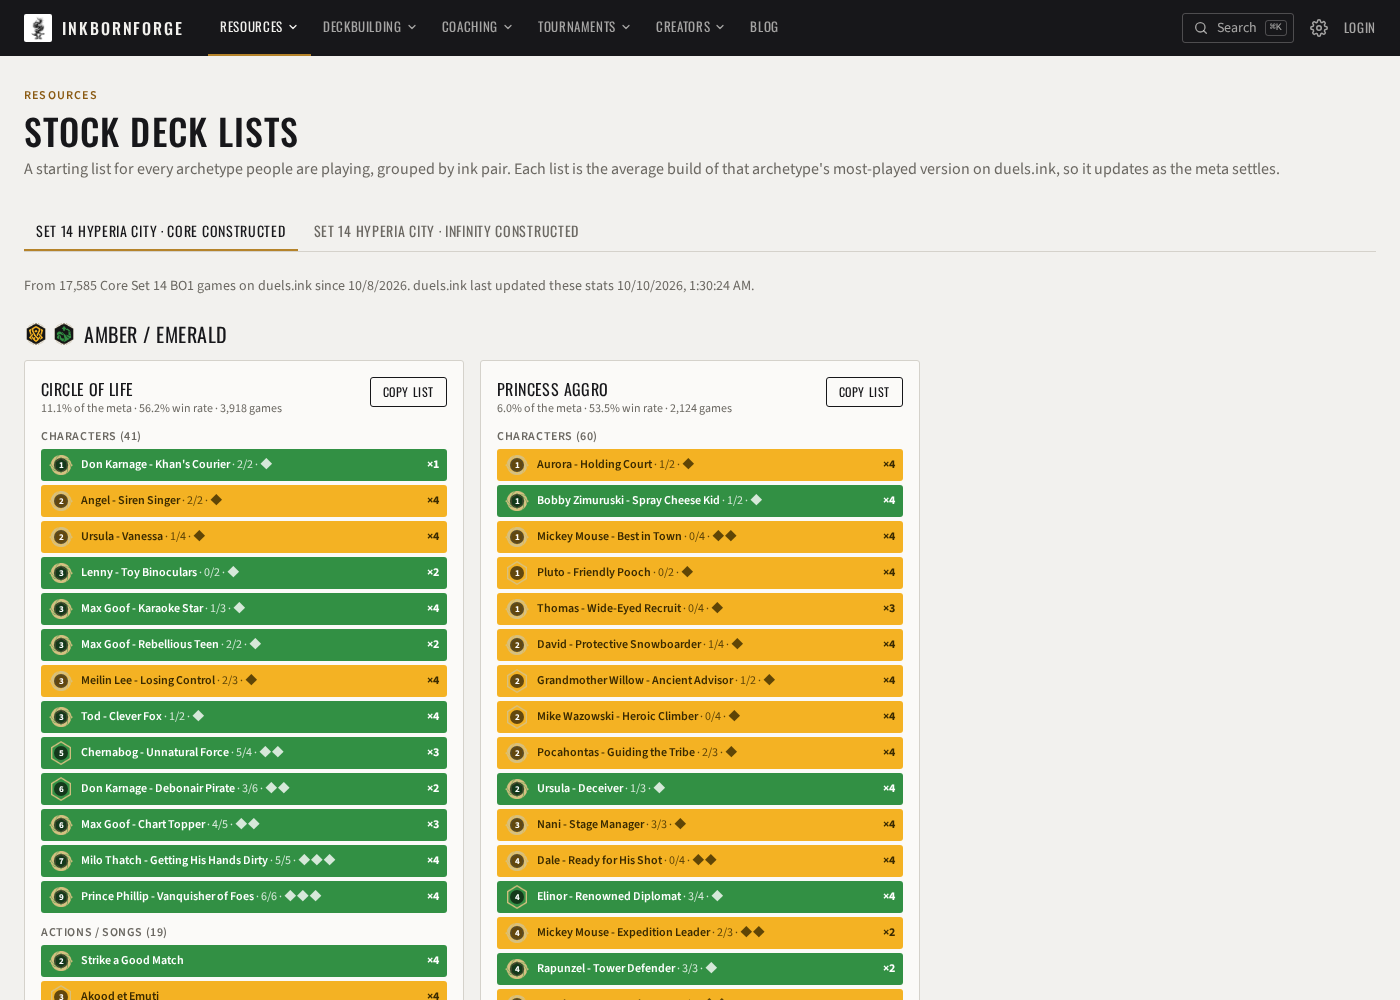
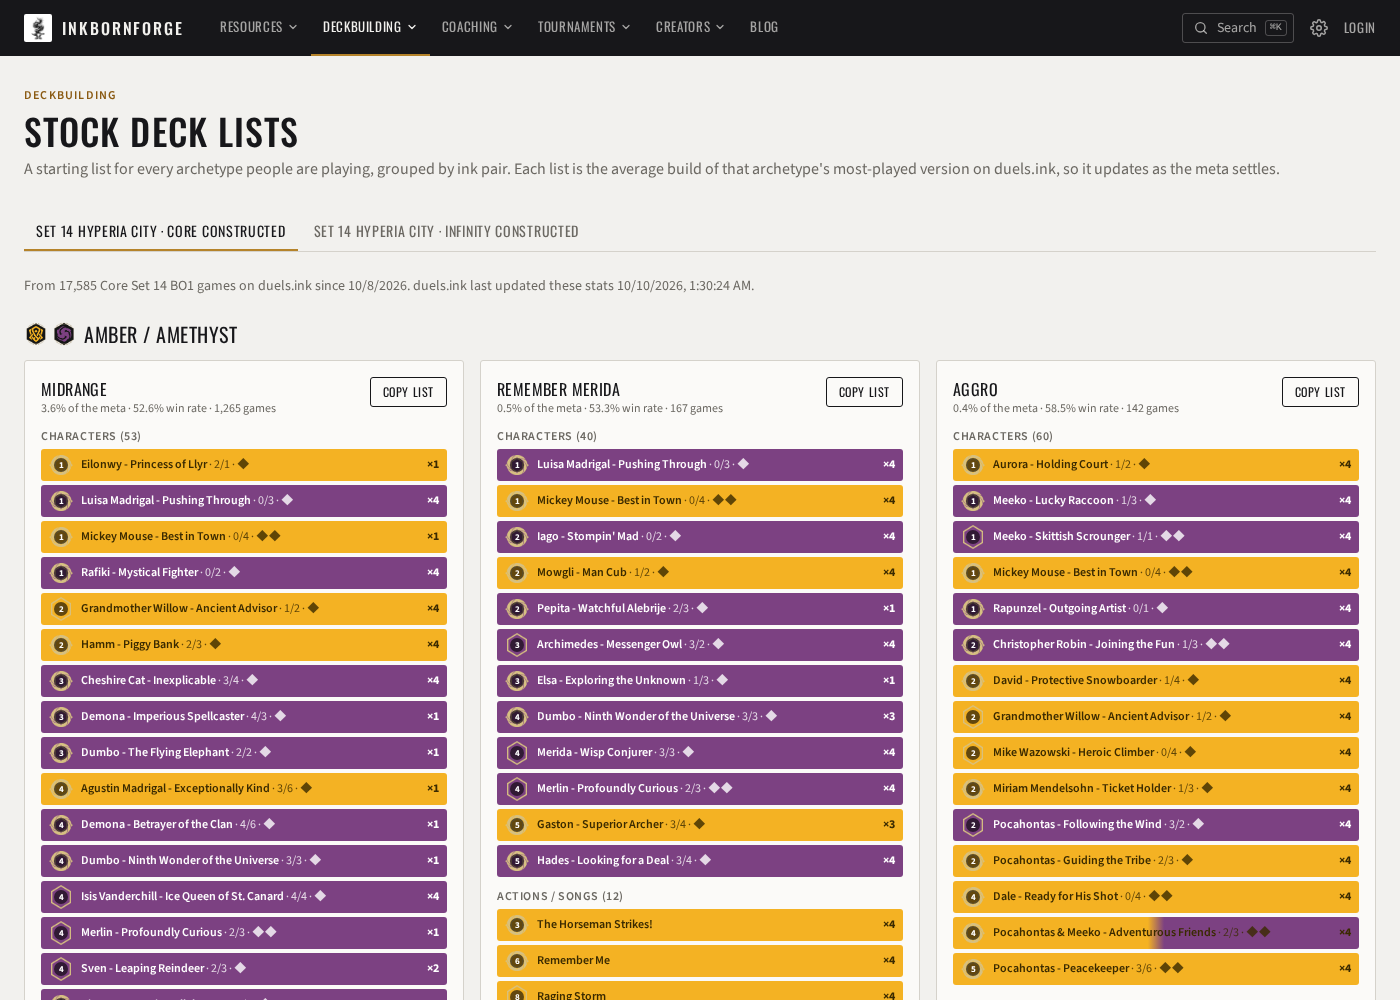
Move deck list pages to Deckbuilding and sort lists by ink pair (#269)
* Move Stock Deck Lists and The Forge Decklists to Deckbuilding

Claude-Session: https://claude.ai/code/session_011LPqTTKt9sshWg5cJPzBrz

* Sort deck lists alphabetically by ink pair

Claude-Session: https://claude.ai/code/session_011LPqTTKt9sshWg5cJPzBrz

---------

diff --git a/src/lib/siteSections.js b/src/lib/siteSections.js
@@ -38,18 +38,6 @@ export const SECTIONS = [
         icon: 'sparkle',
         description: 'A plain-language read on what\'s happening in the meta right now — most-played and highest-winrate archetypes, centered on your own rank and defaulting to the latest week.',
       },
-      {
-        path: '/stock-decks',
-        name: 'Stock Deck Lists',
-        icon: 'cards',
-        description: 'A starting list for every archetype in the meta, grouped by ink pair and organized by set. Copy any list straight into duels.ink.',
-      },
-      {
-        path: '/forge-decks',
-        name: 'The Forge Decklists',
-        icon: 'flame',
-        description: 'Our recommended deck lists for each format, organized by set. Copy any list straight into duels.ink.',
-      },
     ],
   },
   {
@@ -73,6 +61,18 @@ export const SECTIONS = [
         name: 'Coconut Deck Builder',
         icon: 'palm',
         description: 'Build decks for the [Format Coconut] multiplayer format — pick a Coconut card, lock in your inks, and build a singleton deck around it with the copy-count exceptions enforced automatically.',
+      },
+      {
+        path: '/stock-decks',
+        name: 'Stock Deck Lists',
+        icon: 'cards',
+        description: 'A starting list for every archetype in the meta, grouped by ink pair and organized by set. Copy any list straight into duels.ink.',
+      },
+      {
+        path: '/forge-decks',
+        name: 'The Forge Decklists',
+        icon: 'flame',
+        description: 'Our recommended deck lists for each format, organized by set. Copy any list straight into duels.ink.',
       },
     ],
   },

diff --git a/src/lib/__tests__/stockDecks.test.js b/src/lib/__tests__/stockDecks.test.js
@@ -13,18 +13,19 @@ describe('buildStockDecks', () => {
       profile('a2', ['amber', 'emerald'], 'Circle of Life', 50, { '1-2': 4, '1-3': 2 }),
       profile('b1', ['amber', 'emerald'], 'Princess Aggro', 20, { '1-4': 4 }),
       profile('c1', ['amber', 'sapphire'], 'Control', 40, { '1-5': 4 }),
+      profile('d1', ['amethyst', 'amber'], 'Midrange', 10, { '1-7': 4 }),
       profile('x1', ['ruby', 'steel'], null, 999, { '1-6': 4 }),
     ],
   }
 
-  it('groups archetypes by ink pair, most played first, skipping unnamed profiles', () => {
+  it('groups archetypes by ink pair, pairs alphabetical, most played first within a pair, skipping unnamed profiles', () => {
     const pairs = buildStockDecks(stats)
-    expect(pairs.map(p => [p.key, p.gamesPlayed])).toEqual([['amber/emerald', 100], ['amber/sapphire', 40]])
-    expect(pairs[0].decks.map(d => d.name)).toEqual(['Circle of Life', 'Princess Aggro'])
+    expect(pairs.map(p => [p.key, p.gamesPlayed])).toEqual([['amber/amethyst', 10], ['amber/emerald', 100], ['amber/sapphire', 40]])
+    expect(pairs[1].decks.map(d => d.name)).toEqual(['Circle of Life', 'Princess Aggro'])
   })
 
   it("uses the most-played variant's centroid as the list", () => {
-    const deck = buildStockDecks(stats)[0].decks[0]
+    const deck = buildStockDecks(stats)[1].decks[0]
     expect(deck.cards).toEqual([{ cardId: '1-2', count: 4 }, { cardId: '1-3', count: 2 }])
     expect(deck.totalCards).toBe(6)
     expect(deck.gamesPlayed).toBe(80)

diff --git a/src/lib/__tests__/forgeDecks.test.js b/src/lib/__tests__/forgeDecks.test.js
@@ -1,5 +1,5 @@
 import { describe, it, expect } from 'vitest'
-import { parseForgeDeck } from '../forgeDecks'
+import { parseForgeDeck, forgeDecksFor } from '../forgeDecks'
 
 const PATH = '/content/forge-decks/set-14-core/amber-steel.txt'
 
@@ -29,5 +29,12 @@ describe('parseForgeDeck', () => {
     expect(() => parseForgeDeck(PATH, '---\ninks: amber\n---\n4 X\n')).toThrow('"name"')
     expect(() => parseForgeDeck(PATH, '---\nname: A\ninks: plaid\n---\n4 X\n')).toThrow('unknown inks')
     expect(() => parseForgeDeck(PATH, '---\nname: A\ninks: amber\n---\n')).toThrow('no "<count>')
+  })
+})
+
+describe('forgeDecksFor', () => {
+  it('lists a folder alphabetically by ink pair', () => {
+    const keys = forgeDecksFor('set-14-core').map(d => d.colors.join('/'))
+    expect(keys).toEqual([...keys].sort())
   })
 })

diff --git a/src/lib/stockDecks.js b/src/lib/stockDecks.js
@@ -13,7 +13,8 @@ export const STOCK_DECK_FOLDERS = [
 
 // One list per named archetype: the card centroid duels.ink computed for
 // its most-played build variant (`centroidCounts`, cardId → copies). Grouped
-// by ink pair; pairs and the archetypes within them sorted by games played.
+// by ink pair; pairs sorted alphabetically by ink (the canonical order), and
+// the archetypes within a pair by games played.
 export function buildStockDecks(stats) {
   const totalGames = stats.activity.totalGames
   const pairs = new Map()
@@ -39,5 +40,5 @@ export function buildStockDecks(stats) {
   const byGames = (a, b) => b.gamesPlayed - a.gamesPlayed
   return [...pairs.values()]
     .map(pair => ({ ...pair, decks: pair.decks.sort(byGames) }))
-    .sort(byGames)
+    .sort((a, b) => a.key.localeCompare(b.key))
 }

diff --git a/src/lib/forgeDecks.js b/src/lib/forgeDecks.js
@@ -43,5 +43,8 @@ const files = import.meta.glob('/content/forge-decks/*/*.txt', { eager: true, qu
 const FORGE_DECKS = Object.entries(files).map(([path, raw]) => parseForgeDeck(path, raw))
 
 export function forgeDecksFor(folderId) {
-  return FORGE_DECKS.filter(d => d.folderId === folderId)
+  // Ink pairs in alphabetical order (the canonical order), then by name.
+  return FORGE_DECKS
+    .filter(d => d.folderId === folderId)
+    .sort((a, b) => a.colors.join('/').localeCompare(b.colors.join('/')) || a.name.localeCompare(b.name))
 }
